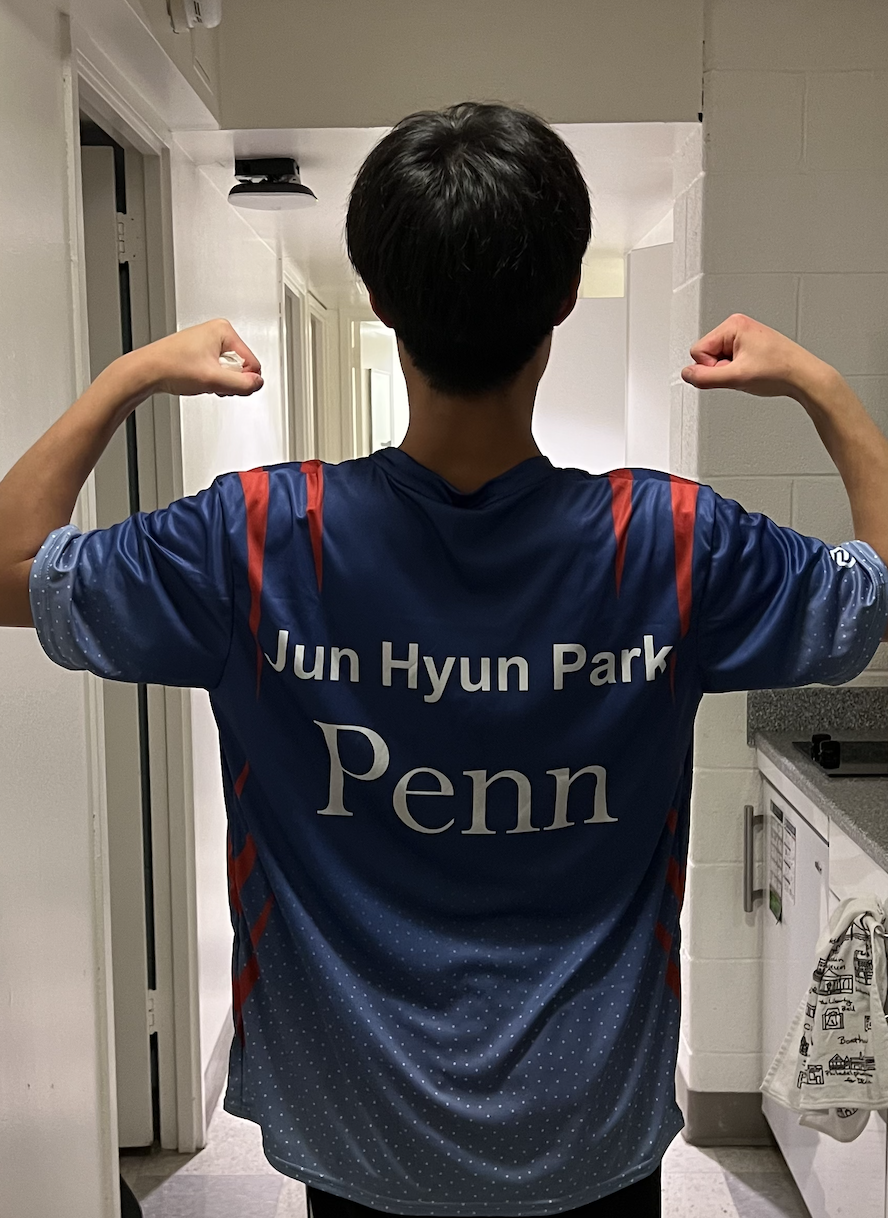
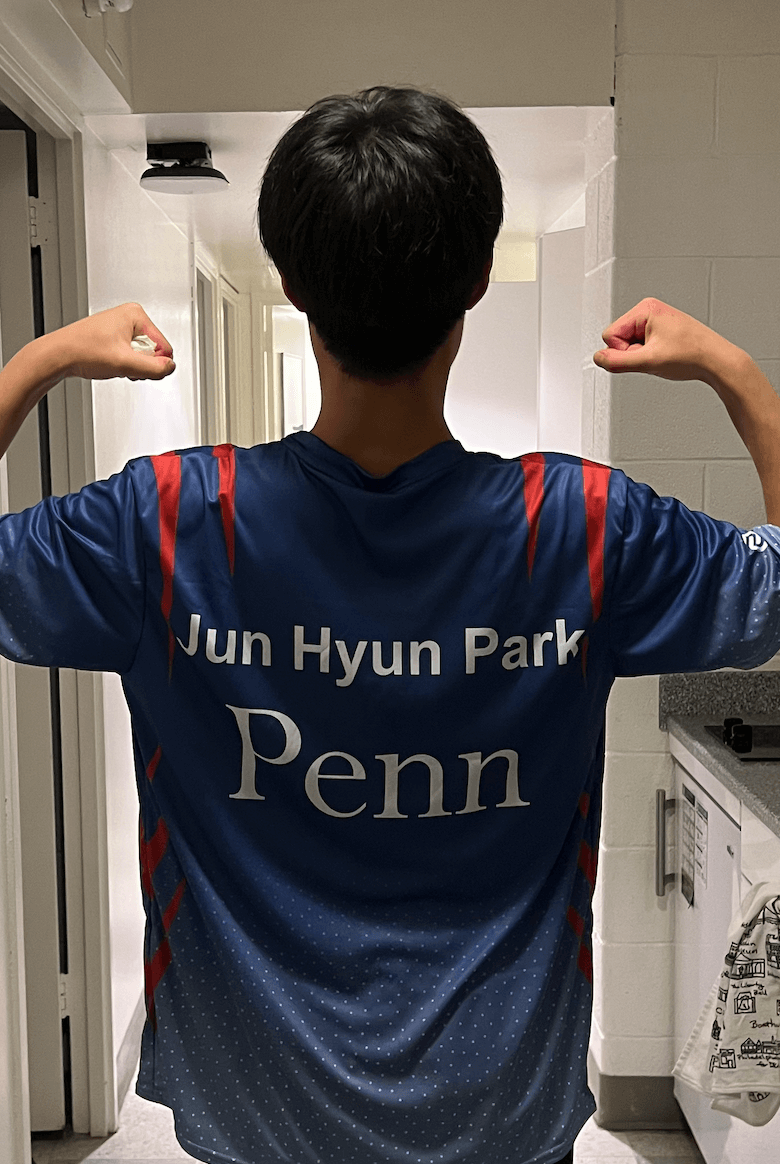
compress images

diff --git a/src/pages/TableTennis.js b/src/pages/TableTennis.js
@@ -24,7 +24,7 @@ export default function TableTennis() {
                     />
                     </Box>
 
-                    <Box display="flex" justifyContent="center" alignItems="center" boxSize="300px" mt={10} ml={"150px"} css={{animation: `${floatInAnimation} 0.75s ease-out forwards`}}>
+                    <Box display="flex" justifyContent="center" alignItems="center" boxSize="270px" mt={10} ml={"150px"} css={{animation: `${floatInAnimation} 0.75s ease-out forwards`}}>
                     <Image
                         src="/pennpingpong.png"
                         borderRadius="15px"
